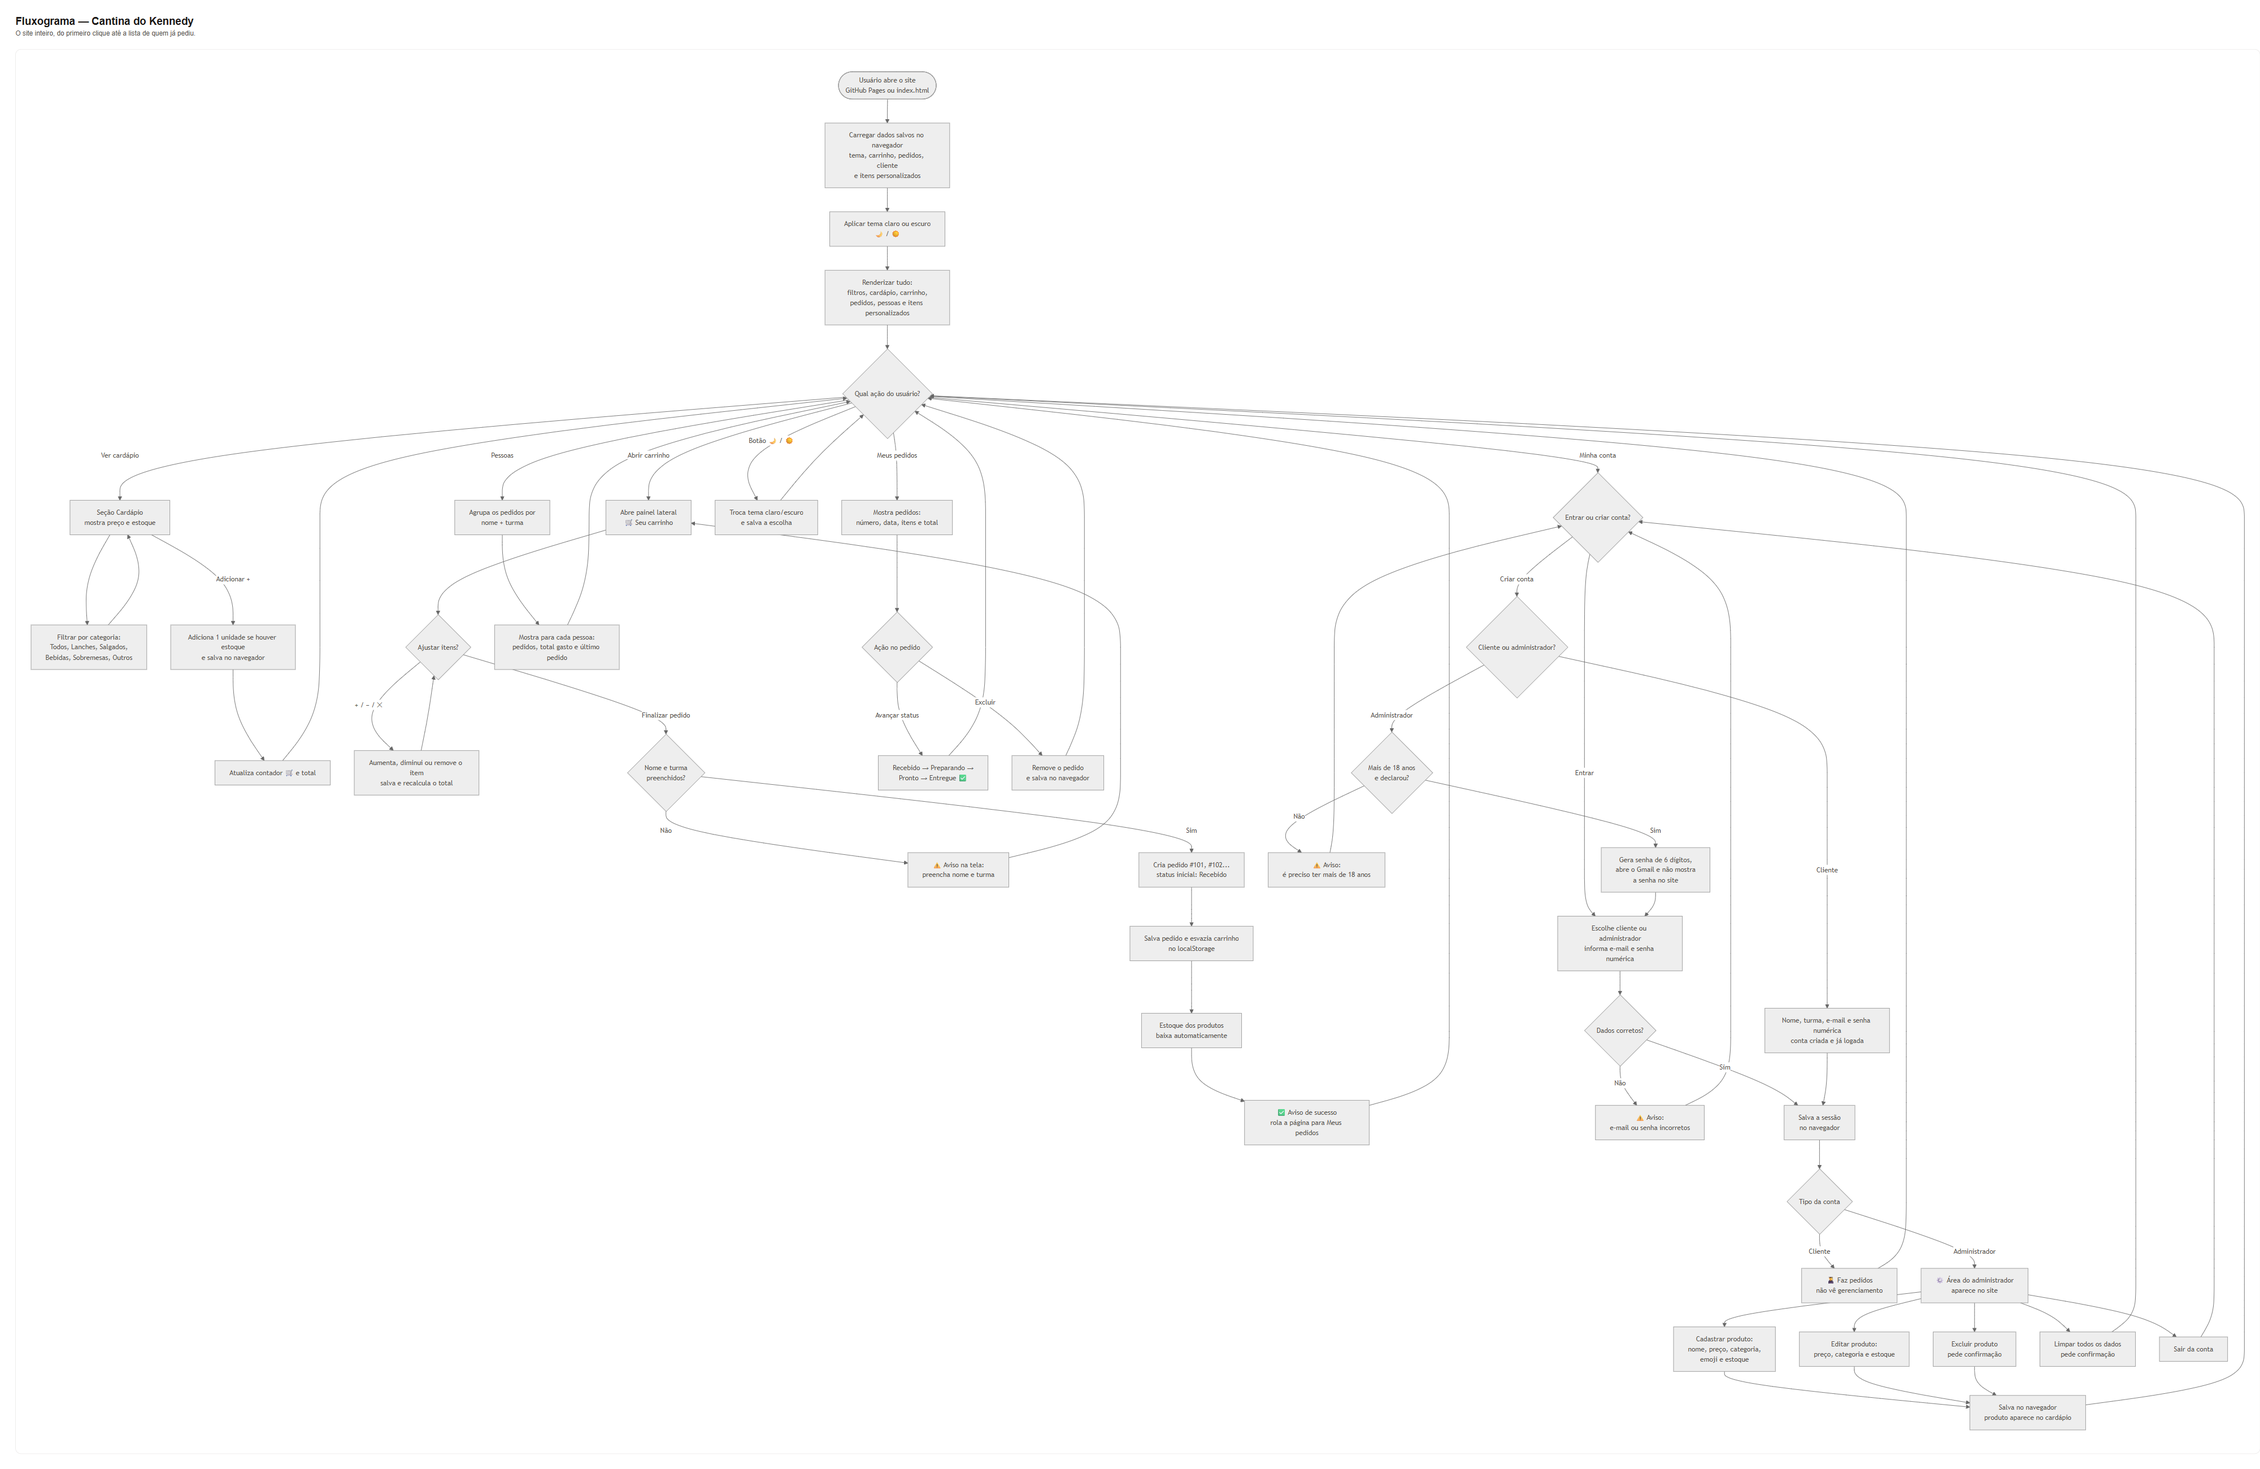
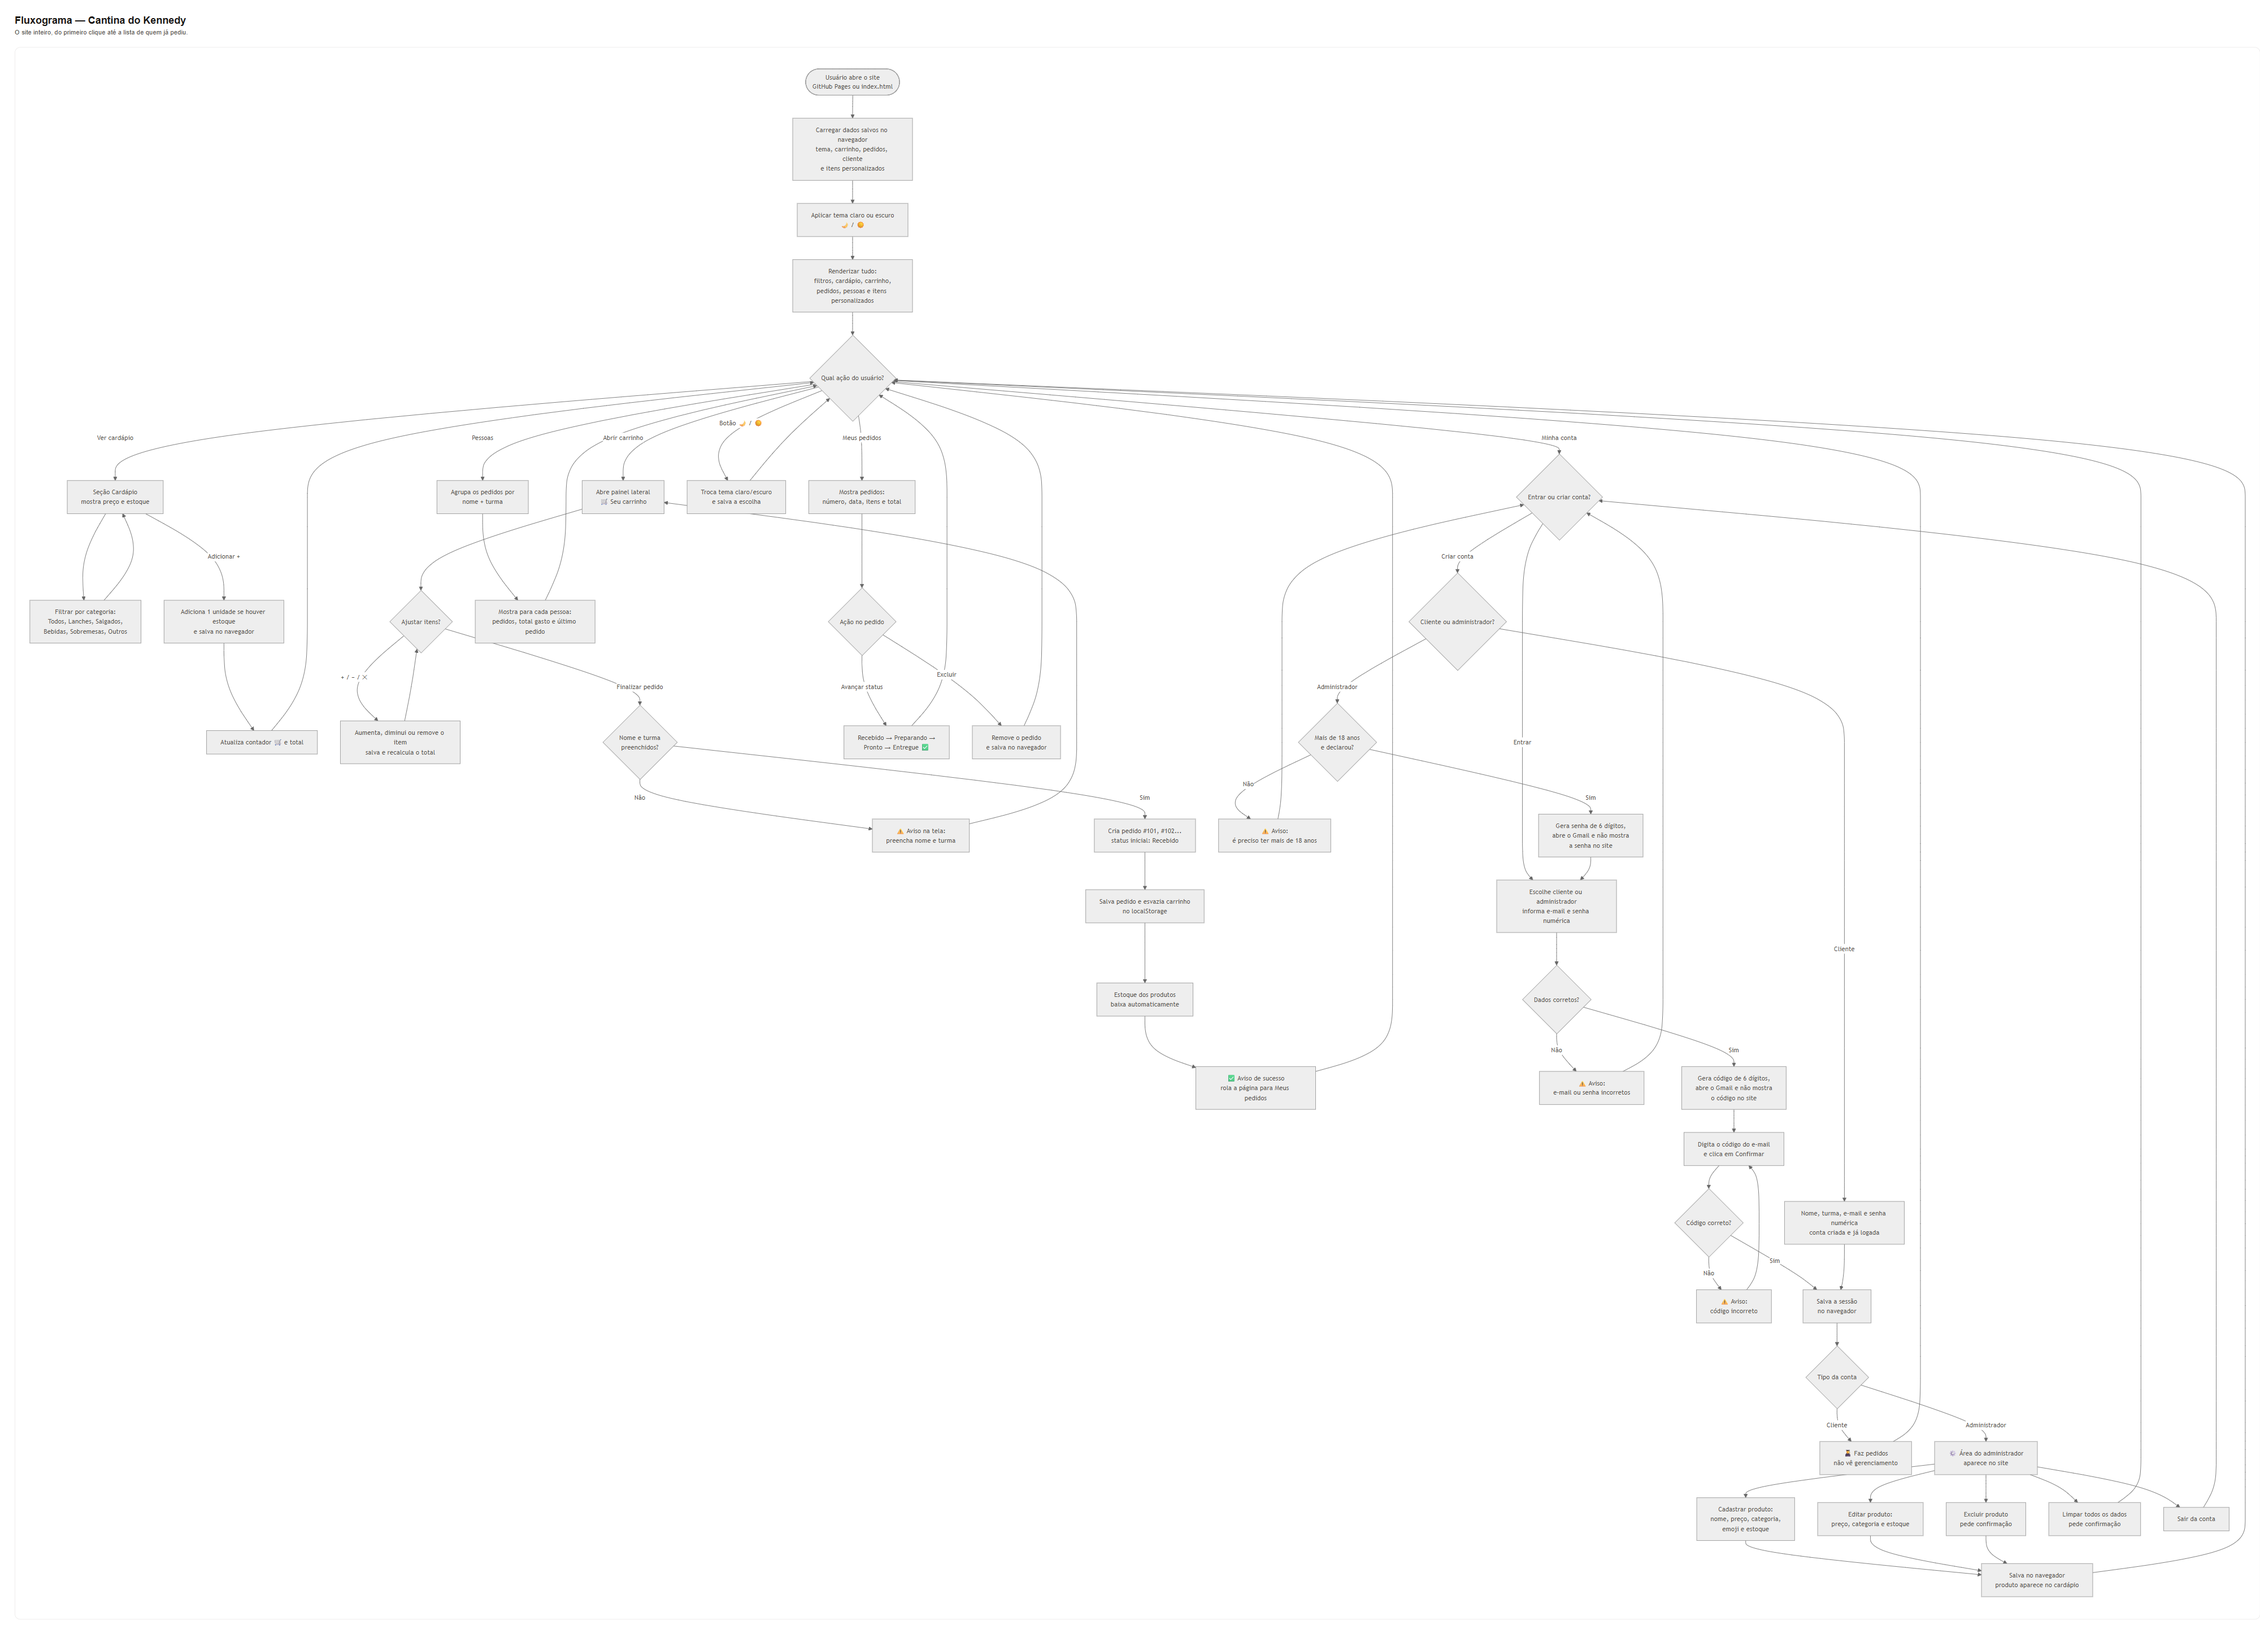
Adiciona codigo por Gmail na etapa de entrar

diff --git a/app.js b/app.js
@@ -79,6 +79,11 @@ const el = {
   formCriar: $('#form-criar'),
   loginEmail: $('#login-email'),
   loginSenha: $('#login-senha'),
+  codigoLogin: $('#codigo-login'),
+  loginCodigo: $('#login-codigo'),
+  linkCodigoGmail: $('#link-codigo-gmail'),
+  btnConfirmarCodigo: $('#btn-confirmar-codigo'),
+  btnCancelarCodigo: $('#btn-cancelar-codigo'),
   criarNome: $('#criar-nome'),
   criarTurma: $('#criar-turma'),
   criarEmail: $('#criar-email'),
@@ -166,7 +171,7 @@ function idadeEmAnos(dataNascimento) {
   return idade;
 }
 
-// Gera uma senha de administrador com somente números (6 dígitos).
+// Gera uma senha ou um código de acesso com somente números (6 dígitos).
 function gerarSenha() {
   const valores = new Uint32Array(6);
   if (window.crypto && window.crypto.getRandomValues) {
@@ -181,6 +186,16 @@ function gerarSenha() {
 function linkGmail(email, nome, senha) {
   const assunto = 'Sua senha de administrador - Cantina do Kennedy';
   const corpo = `Olá, ${nome}!\n\nSua senha de administrador da Cantina do Kennedy é:\n\n${senha}\n\nGuarde esta senha para entrar no site.\n`;
+  return 'https://mail.google.com/mail/?view=cm&fs=1'
+    + `&to=${encodeURIComponent(email)}`
+    + `&su=${encodeURIComponent(assunto)}`
+    + `&body=${encodeURIComponent(corpo)}`;
+}
+
+// Monta o e-mail do Gmail com o código usado na segunda etapa do login.
+function linkGmailCodigo(email, nome, codigo) {
+  const assunto = 'Código para entrar - Cantina do Kennedy';
+  const corpo = `Olá, ${nome}!\n\nSeu código para entrar na Cantina do Kennedy é:\n\n${codigo}\n\nDigite este código no site depois da senha.\n`;
   return 'https://mail.google.com/mail/?view=cm&fs=1'
     + `&to=${encodeURIComponent(email)}`
     + `&su=${encodeURIComponent(assunto)}`
@@ -243,6 +258,9 @@ function alternarModo(modo) {
   el.abaLogin.setAttribute('aria-selected', String(!criando));
   el.abaCriar.setAttribute('aria-selected', String(criando));
   if (criando) el.senhaGerada.hidden = true;
+  el.codigoLogin.hidden = true;
+  el.loginCodigo.value = '';
+  codigoPendente = null;
 }
 
 function atualizarCamposCriacao() {
@@ -363,10 +381,32 @@ function entrar(evento) {
     return;
   }
 
+  // Senha correta: agora vem a etapa extra com o código enviado pelo Gmail.
+  const codigo = gerarSenha();
+  codigoPendente = { conta, codigo };
+  el.formLogin.hidden = true;
+  el.codigoLogin.hidden = false;
+  el.loginCodigo.value = '';
+  window.open(linkGmailCodigo(conta.email, conta.nome, codigo), '_blank', 'noopener');
+  mostrarMensagem('Código gerado! Envie o e-mail no Gmail, copie o código e confirme aqui.');
+  el.loginCodigo.focus();
+}
+
+function confirmarCodigo() {
+  if (!codigoPendente) {
+    mostrarMensagem('Digite e-mail e senha para receber um código.');
+    return;
+  }
+  if (el.loginCodigo.value.trim() !== codigoPendente.codigo) {
+    mostrarMensagem('Código incorreto. Confira o e-mail no Gmail e tente de novo.');
+    return;
+  }
+
+  const conta = codigoPendente.conta;
   sessao = { tipo: conta.tipo, nome: conta.nome, email: conta.email };
   salvar(CHAVES.sessao, sessao);
 
-  if (tipo === 'cliente') {
+  if (conta.tipo === 'cliente') {
     cliente = { nome: conta.nome, turma: conta.turma || '' };
     salvar(CHAVES.cliente, cliente);
     el.nome.value = cliente.nome;
@@ -374,10 +414,21 @@ function entrar(evento) {
   }
 
   el.loginSenha.value = '';
+  el.loginCodigo.value = '';
   el.senhaGerada.hidden = true;
+  el.codigoLogin.hidden = true;
   senhaPendente = null;
+  codigoPendente = null;
   renderizarTudo();
   mostrarMensagem(`Bem-vindo(a), ${conta.nome}!`);
+}
+
+function cancelarCodigo() {
+  codigoPendente = null;
+  el.loginCodigo.value = '';
+  el.codigoLogin.hidden = true;
+  el.formLogin.hidden = false;
+  mostrarMensagem('Login cancelado. Digite e-mail e senha para receber um novo código.');
 }
 
 function sair() {
@@ -386,8 +437,11 @@ function sair() {
   alternarModo('login');
   el.loginEmail.value = '';
   el.loginSenha.value = '';
+  el.loginCodigo.value = '';
   el.senhaGerada.hidden = true;
+  el.codigoLogin.hidden = true;
   senhaPendente = null;
+  codigoPendente = null;
   renderizarTudo();
   mostrarMensagem('Você saiu da conta.');
 }
@@ -408,6 +462,7 @@ let cardapioExcluidos = ler(CHAVES.cardapioExcluidos, []);
 let cardapioEstoque = ler(CHAVES.cardapioEstoque, {});
 let contas = ler(CHAVES.contas, []);
 let senhaPendente = null; // senha do admin só na memória, enquanto o e-mail não é enviado
+let codigoPendente = null; // código do login só na memória, nunca aparece no site
 let modoAuth = 'login';
 // Só aceita sessões no formato novo (cliente ou administrador).
 let sessao = ler(CHAVES.sessao, null);
@@ -887,6 +942,8 @@ el.abaCriar.addEventListener('click', () => {
 });
 el.btnSair.addEventListener('click', sair);
 el.btnCancelarEdicao.addEventListener('click', resetarFormItem);
+el.btnConfirmarCodigo.addEventListener('click', confirmarCodigo);
+el.btnCancelarCodigo.addEventListener('click', cancelarCodigo);
 
 el.linkGmail.addEventListener('click', (evento) => {
   evento.preventDefault();
@@ -896,6 +953,19 @@ el.linkGmail.addEventListener('click', (evento) => {
   }
   window.open(
     linkGmail(senhaPendente.email, senhaPendente.nome, senhaPendente.senha),
+    '_blank',
+    'noopener'
+  );
+});
+
+el.linkCodigoGmail.addEventListener('click', (evento) => {
+  evento.preventDefault();
+  if (!codigoPendente) {
+    mostrarMensagem('Digite e-mail e senha para receber um código.');
+    return;
+  }
+  window.open(
+    linkGmailCodigo(codigoPendente.conta.email, codigoPendente.conta.nome, codigoPendente.codigo),
     '_blank',
     'noopener'
   );
@@ -923,6 +993,7 @@ el.btnLimpar.addEventListener('click', () => {
   contas = [];
   sessao = null;
   senhaPendente = null;
+  codigoPendente = null;
   carrinho = {};
   pedidos = [];
   cliente = { nome: '', turma: '' };
@@ -932,7 +1003,9 @@ el.btnLimpar.addEventListener('click', () => {
   el.turma.value = '';
   el.formLogin.reset();
   el.formCriar.reset();
+  el.loginCodigo.value = '';
   el.senhaGerada.hidden = true;
+  el.codigoLogin.hidden = true;
   atualizarCamposCriacao();
   alternarModo('login');
   resetarFormItem();

diff --git a/index.html b/index.html
@@ -4,7 +4,7 @@
   <meta charset="UTF-8">
   <meta name="viewport" content="width=device-width, initial-scale=1.0">
   <title>Cantina do Kennedy | Peça seu lanche</title>
-  <link rel="stylesheet" href="style.css?v=6">
+  <link rel="stylesheet" href="style.css?v=7">
 </head>
 <body>
 
@@ -90,7 +90,7 @@
         <!-- ENTRAR -->
         <form class="form-auth" id="form-login">
           <h3>Entrar na sua conta</h3>
-          <p class="auth-dica">Escolha o tipo de conta e use o e-mail e a senha que você cadastrou.</p>
+          <p class="auth-dica">Escolha o tipo de conta e use o e-mail e a senha que você cadastrou. Depois, confirme com o código que chega no Gmail.</p>
           <div class="tipo-conta">
             <label class="opcao-conta">
               <input type="radio" name="tipo-login" value="cliente" checked>
@@ -111,6 +111,20 @@
             <button class="botao-primario" id="btn-entrar" type="submit">Entrar</button>
           </div>
         </form>
+
+        <!-- Etapa extra do login: código enviado pelo Gmail -->
+        <div class="senha-gerada" id="codigo-login" hidden>
+          <h3>📧 Confirme com o código do Gmail</h3>
+          <p>Envie para si mesmo o e-mail que abriu. O código de 6 dígitos vem dentro da mensagem e <strong>não aparece aqui no site</strong>.</p>
+          <a class="botao-primario" id="link-codigo-gmail" href="#" target="_blank" rel="noopener">Reabrir e-mail com o código</a>
+          <label class="campo">Digite o código do e-mail
+            <input id="login-codigo" type="text" inputmode="numeric" maxlength="6" placeholder="Somente 6 dígitos" autocomplete="one-time-code">
+          </label>
+          <div class="auth-botoes">
+            <button class="botao-primario" id="btn-confirmar-codigo" type="button">Confirmar e entrar</button>
+            <button class="botao-secundario" id="btn-cancelar-codigo" type="button">Cancelar</button>
+          </div>
+        </div>
 
         <!-- CRIAR CONTA -->
         <form class="form-auth" id="form-criar" hidden>
@@ -246,6 +260,6 @@
 
   <div class="toast" id="toast" role="status" aria-live="polite"></div>
 
-  <script src="app.js?v=6"></script>
+  <script src="app.js?v=7"></script>
 </body>
 </html>

diff --git a/fluxograma.html b/fluxograma.html
@@ -77,7 +77,12 @@ flowchart TD
     LOGIN --> LOGINOK{"Dados corretos?"}
     LOGINOK -->|"Não"| ERROLOGIN["⚠ Aviso:<br/>e-mail ou senha incorretos"]
     ERROLOGIN --> ENTRADA
-    LOGINOK -->|"Sim"| SESSAO["Salva a sessão<br/>no navegador"]
+    LOGINOK -->|"Sim"| GERACODIGO["Gera código de 6 dígitos,<br/>abre o Gmail e não mostra<br/>o código no site"]
+    GERACODIGO --> CODIGO["Digita o código do e-mail<br/>e clica em Confirmar"]
+    CODIGO --> CODIGOOK{"Código correto?"}
+    CODIGOOK -->|"Não"| ERROCODIGO["⚠ Aviso:<br/>código incorreto"]
+    ERROCODIGO --> CODIGO
+    CODIGOOK -->|"Sim"| SESSAO["Salva a sessão<br/>no navegador"]
 
     ENTRADA -->|"Criar conta"| TIPO{"Cliente ou administrador?"}
     TIPO -->|"Cliente"| CRIARCLI["Nome, turma, e-mail e senha numérica<br/>conta criada e já logada"]

diff --git a/style.css b/style.css
@@ -317,6 +317,7 @@ body.tema-escuro .status-3 { background: #44403c; color: #e7e5e4; }
 .senha-gerada h3 { margin: 0 0 6px; font-size: 1rem; }
 .senha-gerada p { margin: 0 0 10px; font-size: 0.85rem; color: var(--muted); }
 .senha-gerada .auth-dica { margin: 10px 0 0; }
+.senha-gerada .campo { display: block; margin-top: 12px; }
 a.botao-primario { display: inline-block; text-decoration: none; cursor: pointer; }
 
 .admin-conteudo { padding-top: 10px; }

diff --git a/fluxograma-simples.html b/fluxograma-simples.html
@@ -44,7 +44,7 @@ flowchart LR
     A --> B --> C --> D --> E --> F --> G --> H
 
     B -.-> I["🧑🎓 Cliente"]
-    I -.-> J["Criar conta ou entrar<br/>e fazer pedidos"]
+    I -.-> J["Criar conta ou entrar<br/>com senha + código do Gmail"]
     B -.-> L["🛡 Administrador"]
     L -.-> M["Senha só no Gmail<br/>e mais de 18 anos"]
     M -.-> K["Cadastrar, editar,<br/>excluir e ajustar estoque"]

diff --git a/README.md b/README.md
@@ -28,6 +28,16 @@ Na seção **Minha conta** você escolhe entre **Entrar** e **Criar conta**.
 - O site gera uma senha de **6 dígitos** (somente números) e abre o **Gmail** com uma mensagem pronta para a pessoa enviar para si mesma. A senha **não aparece no site**: ela vem somente dentro do e-mail.
 - Depois é só abrir o e-mail no Gmail, copiar a senha e entrar escolhendo **“Sou administrador”**.
 
+### 🔢 Etapa extra ao entrar
+
+Tanto cliente quanto administrador, ao escolher **Entrar**, precisam:
+
+1. Informar o tipo de conta, o e-mail e a senha cadastrada.
+2. Receber um **código de 6 dígitos** no Gmail (o site abre a mensagem pronta).
+3. Copiar o código do e-mail, digitá-lo no site e clicar em **“Confirmar e entrar”**.
+
+O código **não aparece no site**: fica só dentro do e-mail e na memória da aba. Se o e-mail não abriu, use **“Reabrir e-mail com o código”**. Se errar ou desistir, clique em **“Cancelar”** para começar de novo.
+
 > ⚠ Como o site é estático (GitHub Pages), ele **não envia e-mails sozinho**: o Gmail abre com a mensagem pronta e a pessoa clica em enviar. A idade é conferida pela data de nascimento informada — também não há verificação com documento. Tudo fica salvo somente neste navegador. Isso é uma separação simples para o projeto, não uma segurança de verdade.
 
 ## Fluxograma simples (versão fácil)

diff --git a/fluxograma.md b/fluxograma.md
@@ -55,7 +55,12 @@ flowchart TD
     LOGIN --> LOGINOK{"Dados corretos?"}
     LOGINOK -->|"Não"| ERROLOGIN["⚠ Aviso:<br/>e-mail ou senha incorretos"]
     ERROLOGIN --> ENTRADA
-    LOGINOK -->|"Sim"| SESSAO["Salva a sessão<br/>no navegador"]
+    LOGINOK -->|"Sim"| GERACODIGO["Gera código de 6 dígitos,<br/>abre o Gmail e não mostra<br/>o código no site"]
+    GERACODIGO --> CODIGO["Digita o código do e-mail<br/>e clica em Confirmar"]
+    CODIGO --> CODIGOOK{"Código correto?"}
+    CODIGOOK -->|"Não"| ERROCODIGO["⚠ Aviso:<br/>código incorreto"]
+    ERROCODIGO --> CODIGO
+    CODIGOOK -->|"Sim"| SESSAO["Salva a sessão<br/>no navegador"]
 
     ENTRADA -->|"Criar conta"| TIPO{"Cliente ou administrador?"}
     TIPO -->|"Cliente"| CRIARCLI["Nome, turma, e-mail e senha numérica<br/>conta criada e já logada"]

diff --git a/fluxograma-simples.md b/fluxograma-simples.md
@@ -23,7 +23,7 @@ flowchart LR
     A --> B --> C --> D --> E --> F --> G --> H
 
     B -.-> I["🧑🎓 Cliente"]
-    I -.-> J["Criar conta ou entrar<br/>e fazer pedidos"]
+    I -.-> J["Criar conta ou entrar<br/>com senha + código do Gmail"]
     B -.-> L["🛡 Administrador"]
     L -.-> M["Senha só no Gmail<br/>e mais de 18 anos"]
     M -.-> K["Cadastrar, editar,<br/>excluir e ajustar estoque"]
